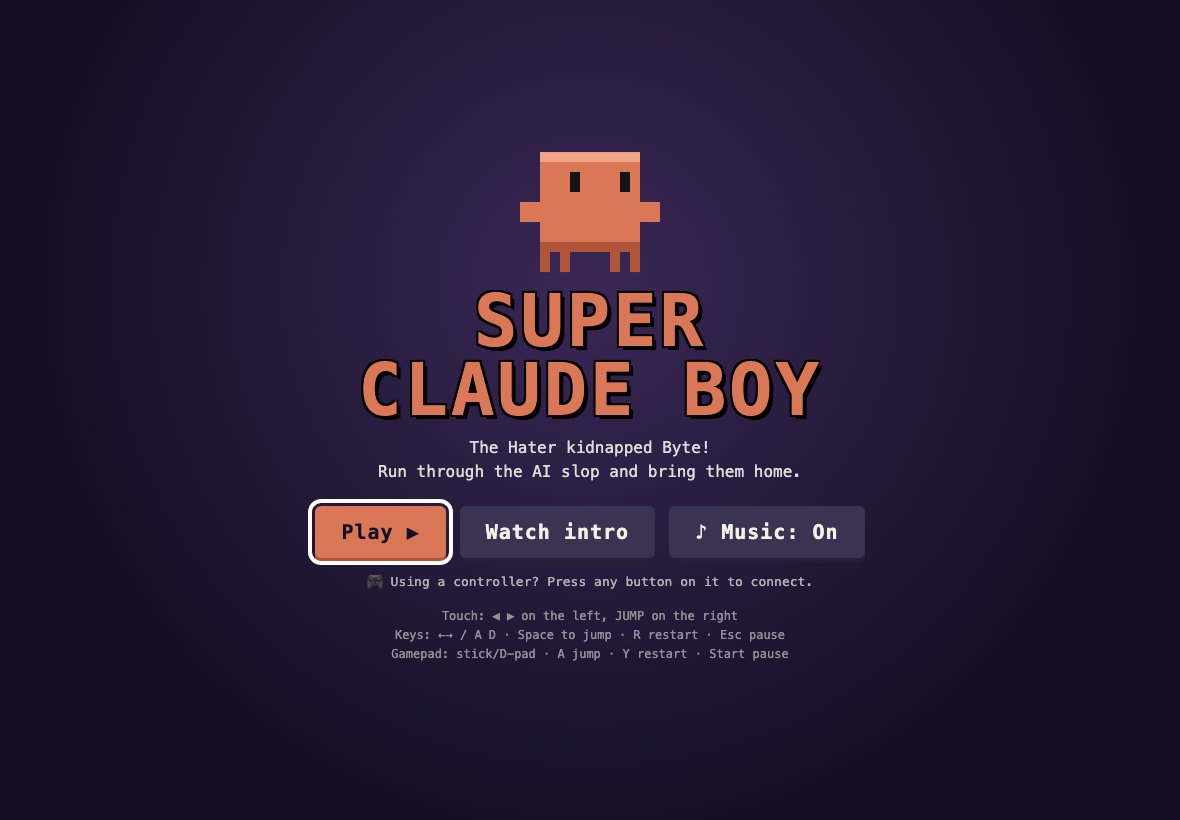
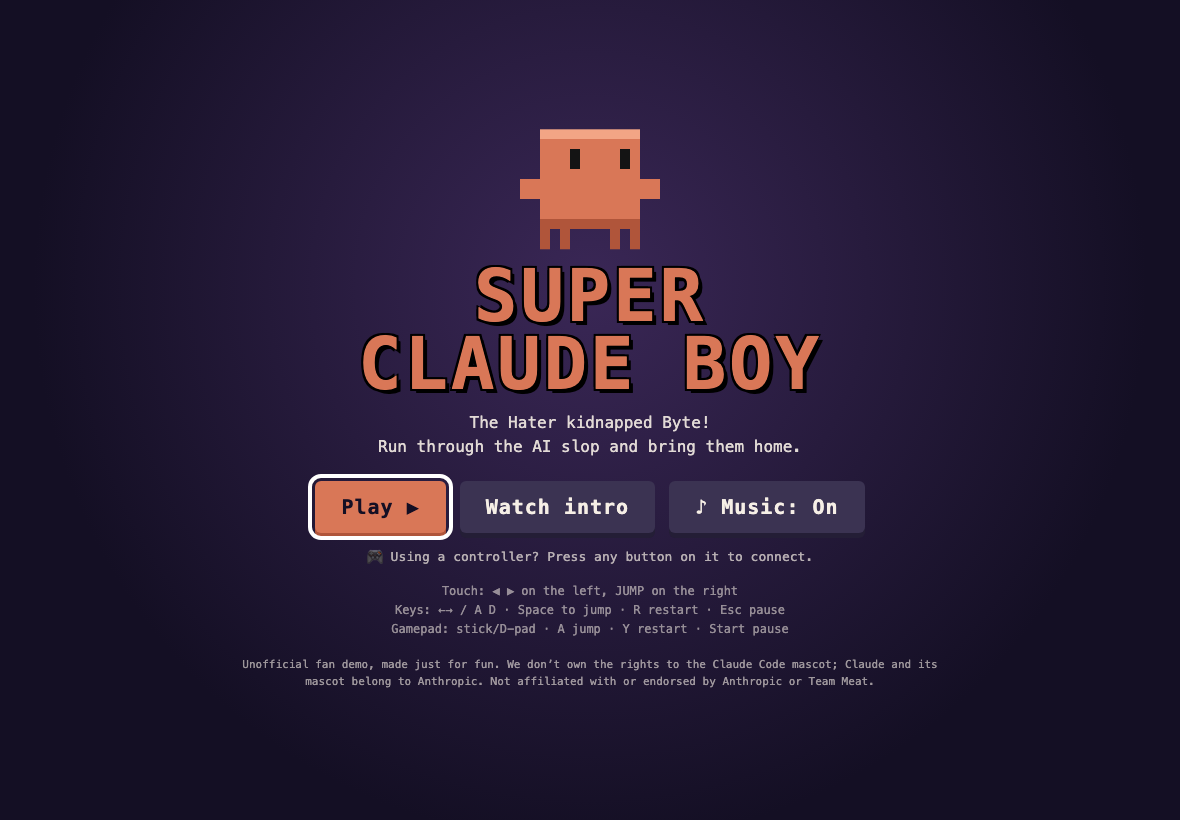
Title screen: note that this is an unofficial fan demo
States that we don't own the rights to the Claude Code mascot and are
not affiliated with Anthropic or Team Meat. Bump cache to v4.

Changed region(s): [[0.2136, 0.1524, 0.7932, 0.8537]]

diff --git a/style.css b/style.css
@@ -114,6 +114,8 @@ h2 { margin: 0; font-size: clamp(26px, 4vw, 40px); color: var(--orange); text-sh
 #btn-skip { position: absolute; top: calc(14px + var(--safe-t)); right: calc(16px + var(--safe-r)); font-size: 16px; padding: 10px 18px; }
 .intro-hint { font-size: 12px; }
 
+.disclaimer { max-width: min(720px, 92vw); margin: 6px 0 0; font-size: 11px; line-height: 1.5; opacity: 0.6; }
+
 #pad-hint { margin: 0; font-size: 13px; opacity: 0.7; }
 #pad-hint.ready { color: #7ed957; opacity: 1; font-weight: 800; }
 
@@ -136,6 +138,8 @@ h2 { margin: 0; font-size: clamp(26px, 4vw, 40px); color: var(--orange); text-sh
 @media (orientation: portrait) and (pointer: coarse) { #rotate { display: grid; } }
 
 @media (max-height: 520px) {
+  #title .controls { display: none; }
+  .disclaimer { font-size: 10px; margin: 0; }
   .controls, .story { font-size: 11px; }
   #title-hero { width: 70px; height: 60px; }
   #level-grid { grid-template-columns: repeat(3, minmax(130px, 180px)); gap: 8px; }

diff --git a/index.html b/index.html
@@ -45,6 +45,7 @@
     </div>
     <p id="pad-hint">🎮 Using a controller? Press any button on it to connect.</p>
     <p class="controls">Touch: ◀ ▶ on the left, JUMP on the right<br>Keys: ←→ / A D · Space to jump · R restart · Esc pause<br>Gamepad: stick/D-pad · A jump · Y restart · Start pause</p>
+    <p class="disclaimer">Unofficial fan demo, made just for fun. We don’t own the rights to the Claude Code mascot; Claude and its mascot belong to Anthropic. Not affiliated with or endorsed by Anthropic or Team Meat.</p>
   </section>
 
   <section id="intro" class="screen" hidden>

diff --git a/sw.js b/sw.js
@@ -1,5 +1,5 @@
 // Offline support: serve from cache, refresh the cache in the background.
-const CACHE = 'super-claude-boy-v3';
+const CACHE = 'super-claude-boy-v4';
 const ASSETS = [
   './', './index.html', './style.css', './manifest.webmanifest',
   './src/main.js', './src/physics.js', './src/levels.js', './src/sprites.js', './src/audio.js', './src/input.js', './src/music.js',
